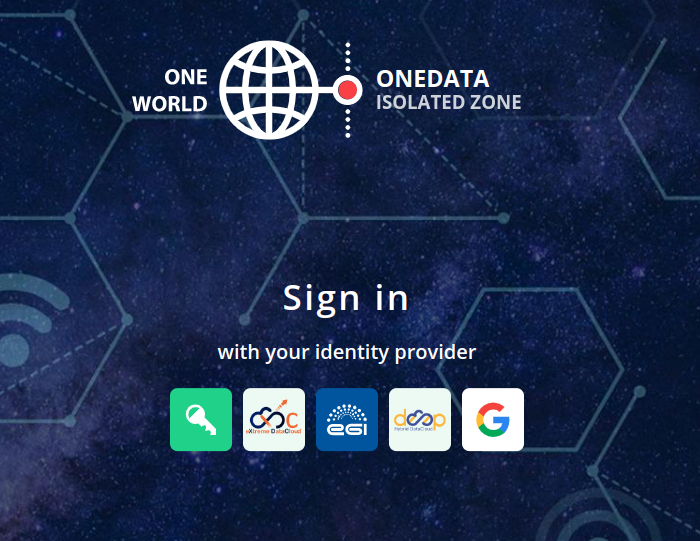
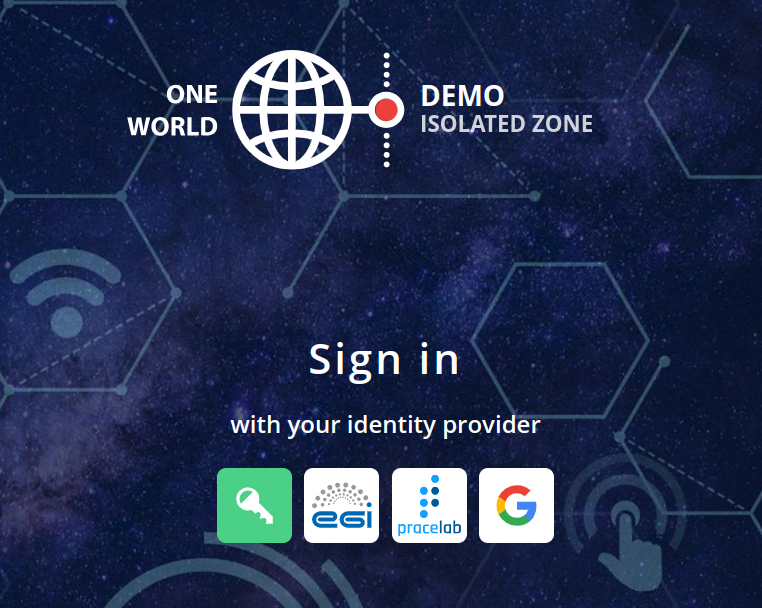
VFS-12108 Improve the user quickstart guide

diff --git a/docs/user-guide/quickstart.md b/docs/user-guide/quickstart.md
@@ -2,119 +2,178 @@
 
 [toc][1]
 
-Onezone consists of multiple zones, each specific to the organization,
-which provides you with its domain. There can be multiple Onezone instances
-operated by various organizations. As a user, you have the flexibility to
-choose the instance with which you intend to collaborate, among the available options.
+## Introduction — Onezone service
 
-This tutorial is based on an example of a publicly accessible zone:
-[onezone.onedata.org][], which you can use to
-familiarize yourself with the system if your organization does not have its zone.
+The Onedata software can be used to build different ecosystems. Each Onedata ecosystem
+constitutes an independent data management platform, made up of multiple data centers. At
+the heart of each Onedata ecosystem lies the **Onezone service** that serves as an entry
+point to the system and coordinates work of underlying data providers.
+
+To get started with Onedata, make sure you can identify your Onezone service:
+
+* If your institution is a part of a Onedata ecosystem, they should guide you to the
+  proper website.
+
+* If you have access to [EGI][] services or your Identity Provider is federated in the
+  [EGI Check-In][] services for identity management, you may get access to the
+  [EGI DataHub][] Onezone. All users there are granted access to the
+  **PLAYGROUND** Space for testing purposes. You may also use it to follow the Sandbox
+  tutorial below (use the **PLAYGROUND** Space on **datahub.egi.eu** instead of the
+  **Sandbox** Space on **demo.onedata.org**).
+
+* If you are new to this software and don't have an account yet, you can log in to
+  [demo.onedata.org][] to get access to the **Sandbox** environment. Follow the rest of
+  the quickstart guide.
+
+* If you are a developer or sysadmin, consider setting up your own local deployment using
+  the [demo mode][].
 
 ## Log in
 
+Open the website of your Onezone service. You will be welcomed with a login screen,
+offering a choice of Identity Providers.
+
+Each Onezone service may be configured differently. This tutorial is based on a publicly
+accessible zone — [demo.onedata.org][] — which you can use to familiarize yourself with
+the system if your don't have access to any Onedata services. You will need an account in
+[EGI][] or Google for that purpose. If you don't have one, [contact us][] and we will
+create a test account for you.
+
 ![screen-log-in][]
 
-<!-- TODO VFS-10903 
-   add information about the demo mode as another way to have a zone
-   link from there to there and to here from there
-
-   Also, propose this as a way for a user quickstart for more advanced users.
--->
-
-To access Onedata, follow these steps for logging in through Identity Providers
-(IdPs) configured by the zone administrators:
-
-1. Select your IdP and get redirected to its page.
-2. Accept the authentication request to log in.
-3. Once successfully logged in, you'll be able to access your data.
-4. To manage your account, refer to the [account-management][] subsection.
-
-As an alternative to using the provided IdPs from [onezone.onedata.org][],
-you can also log in using your username and password, with the process being overseen by the
-administrators of your zone. For more information or to request a test account,
-contact the administrators at [info@onedata.org][].
+Click on the selected Identity Provider and follow the steps to log in to Onedata. You
+will have to accept releasing your user information so that you can be authenticated by
+the Onezone service.
 
 ::: tip NOTE
-The green key icon is reserved for the login of administrators and special users created through
-the Onepanel administrative interface. Regular users should use social or institutional accounts
-to sign in.
+The green key icon is reserved for the login of administrators and special users created
+through the Onepanel administrative interface. Regular users should use social or
+institutional accounts to sign in.
 :::
 
-## First steps
+## Sandbox
 
-In Onedata, all user data is organized into spaces. Spaces are containers
-that streamline data organization, providing unified storage space and access control
-for users or groups. Access management at the space level is through tokens, which serve various
-purposes such as connecting to an existing space, inviting someone to a space, or requesting support.
-Each space requires at least one supporting physical storage backend provided by data providers.
-For details, see the [spaces][] chapter.
+All users logging in to [demo.onedata.org][] are granted access to the **Sandbox** Space.
+It's a perfect place to play around with Onedata and test its features.
 
-This comprehensive guide will assist you in creating your initial data space
-and uploading your first files.
+::: warning
+The **Sandbox** Space is intended to be a testing environment and comes with no
+guarantees. It is cleaned if it becomes cluttered.
 
-1. If your organization already has preconfigured spaces for users, proceed to step 4.
-2. To create your first space, follow the instructions in the
-   [creating new space][] guide.
-3. There are two methods for obtaining support for your space:
-   * Request support from a provider with the
-     [request support for the space][] guide.
-   * Set up your provider (advanced).
-4. To upload data navigate to **DATA > *Space name* > Files** and follow the [uploading
-   data][] guide. After uploading your data, you can explore various options by
-   left-clicking on a file. Double-clicking on a file will initiate the download.
+Do not store any private or sensitive data in the Space, as it's available to all the
+logged-in users.
+:::
+
+If you have logged in and you don't see the **Sandbox** Space in the **DATA** tab, it's
+possible that you don't belong to the **All users** group. It may happen if you have
+opted-out of the group or logged into the system in the past, when the Sandbox was not
+set up yet. To fix it, join the group manually by [consuming the token][] below:
+
+```
[1 lines of base64/hex data omitted]
+```
+
+### Create your own directory in the Sandbox
+
+Navigate to the **DATA > Sandbox > Files** tab and create a new directory using the action
+in the top right corner or by invoking the right-click menu. Give it a meaningful name:
+
+![screen-create-directory][]
+
+Right-click on the newly created directory and choose **Permissions** from the context
+menu. Switch to the **ACL** permission type and add a single entry, for yourself, allowing
+all operations:
+
+![screen-set-acl][]
+
+Hit **Save** and done — you now have your own directory in the Sandbox Space, to which no
+one else has access ([ACLs][] implicitly deny access if there is no explicitly allowing
+entry). You may use this directory to [upload some data][] and test Onedata features. If
+you wish for others to see the fruits of your experiments, feel free to place your data in
+a non-ACL-secured location.
+
+## Next steps
+
+To get a better understanding of Onedata and its features, we recommend the following
+chapters:
+
+* [Spaces][] — will give you an overview of this fundamental concept in Onedata.
+* [Data][] — describes how the data is organized and accessed.
+* [Web file browser][] — guides you through all the features of the file browser in the
+  Onedata Web UI.
+* [Account management][] — shows how to manage your Onedata account.
+* Further reading — use the menu on the left to dive deeper into different aspects of
+  Onedata.
+
+## Want more?
+
+If you have tested Onedata out and would like a real thing, [contact us][] — we'll see
+what can be done to organize a fully-fledged Onedata ecosystem for your use cases.
 
 ## Useful links
 
-The table below presents some of the high-level concepts of Onedata.
-
-| Concept            | Description                                                     | Link                          |
-| ------------------ | --------------------------------------------------------------- | ----------------------------- |
-| Tokens             | Authorize various actions across the system.                    | [tokens][]                    |
-| Datasets           | Organize related files together.                                | [datasets][]                  |
-| Archives           | Preserve your data for long-term access.                        | [archives][]                  |
-| Metadata           | Describe and assign custom attributes to files and directories. | [metadata][]                  |
-| Data discovery     | Index metadata from files, perform queries, or browse metadata. | [data discovery][]            |
-| Migration          | Replicate and remove file replicas from the source provider.    | [replication and migration][] |
-| Replication        | Replicate file blocks to the target provider.                   | [replication and migration][] |
-| Quality of Service | Manage file replica distribution based on your requirements.    | [quality of service][]        |
-| Shares             | Share your data using publicly accessible links.                | [shares][]                    |
-| Deploy Onedata     | Deploy your own Onedata services for administration purposes.   | [admin guide][]               |
+| Concept                       | Description                                                           |
+| ----------------------------- | --------------------------------------------------------------------- |
+| [Shares][]                    | Publish and share your data using publicly accessible links.          |
+| [Replication and migration][] | Manage the distribution and replication of data.                      |
+| [Metadata][]                  | Assign custom metadata to files and directories (JSON / RDF / xattr). |
+| [Data discovery][]            | Index file metadata, perform queries, browse the metadata.            |
+| [Datasets][]                  | Organize related files together.                                      |
+| [Archives][]                  | Preserve your data for long-term access.                              |
+| [Tokens][]                    | Authorize various actions across the system.                          |
+| [Quality of Service][]        | Manage file replica distribution based on declarative rules.          |
+| [Deploy Onedata][]            | Deploy your own Onedata services.                                     |
 
 <!-- references -->
 
 [1]: <>
 
-[onezone.onedata.org]: https://onezone.onedata.org/
+[demo.onedata.org]: https://demo.onedata.org/
+
+[EGI]: https://www.egi.eu/services/
+
+[EGI Check-In]: https://www.egi.eu/service/check-in/
+
+[EGI DataHub]: https://datahub.egi.eu
+
+[demo mode]: ../admin-guide/demo-mode.md
+
+[consuming the token]: tokens.md#consuming-invite-tokens
+
+[ACLs]: data.md#access-control-lists
+
+[upload some data]: web-file-browser.md#uploading-data
+
+[contact us]: https://onedata.org/#/home/contact
+
+[Spaces]: spaces.md
+
+[Data]: data.md
+
+[Web file browser]: web-file-browser.md
+
+[Account management]: account-management.md
+
+[Tokens]: tokens.md
+
+[Datasets]: datasets.md
+
+[Archives]: archives.md
+
+[Metadata]: metadata.md
+
+[Data discovery]: data-discovery.md
+
+[Replication and migration]: data-transfer.md
+
+[Quality of service]: qos.md
+
+[Shares]: shares.md
+
+[Deploy Onedata]: ../admin-guide/overview.md
 
 [screen-log-in]: ../../images/user-guide/quickstart/log-in.png
 
-[account-management]: account-management.md
+[screen-create-directory]: ../../images/user-guide/quickstart/create-directory.png
 
-[info@onedata.org]: mailto:info@onedata.org
-
-[spaces]: spaces.md
-
-[creating new space]: spaces.md#create-or-join-a-new-space
-
-[request support for the space]: spaces.md#request-support-for-space
-
-[uploading data]: web-file-browser.md#uploading-data
-
-[tokens]: tokens.md
-
-[datasets]: datasets.md
-
-[archives]: archives.md
-
-[metadata]: metadata.md
-
-[data discovery]: data-discovery.md
-
-[replication and migration]: data-transfer.md
-
-[quality of service]: qos.md
-
-[shares]: shares.md
-
-[admin guide]: ../admin-guide/overview.md
+[screen-set-acl]: ../../images/user-guide/quickstart/set-acl.png
